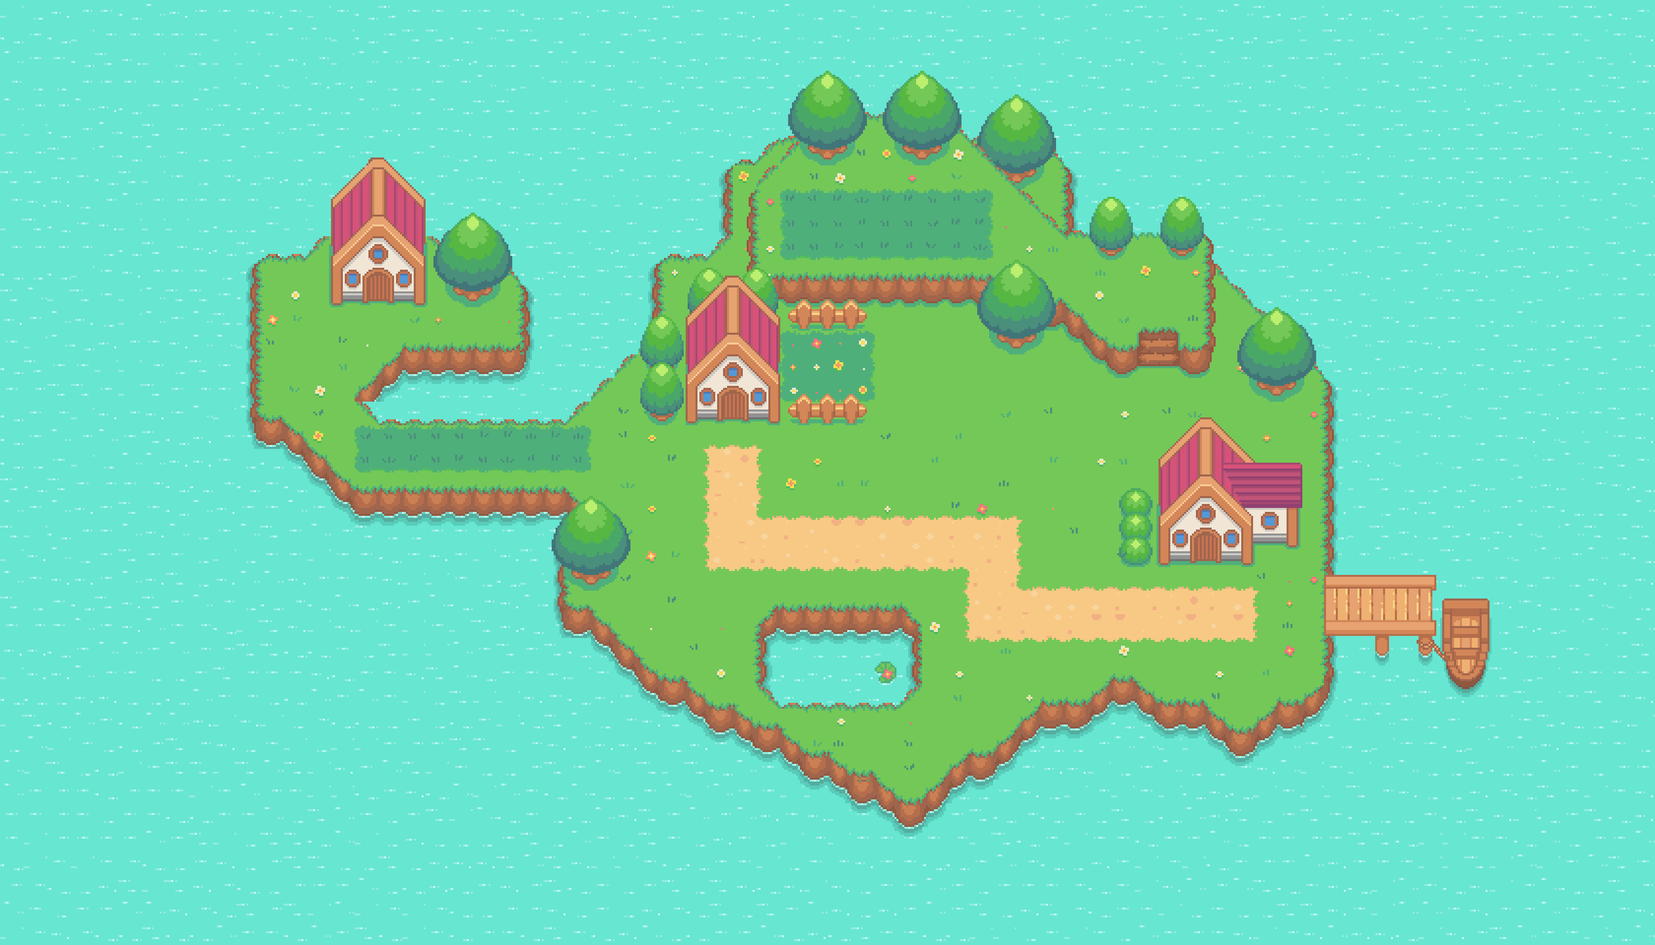
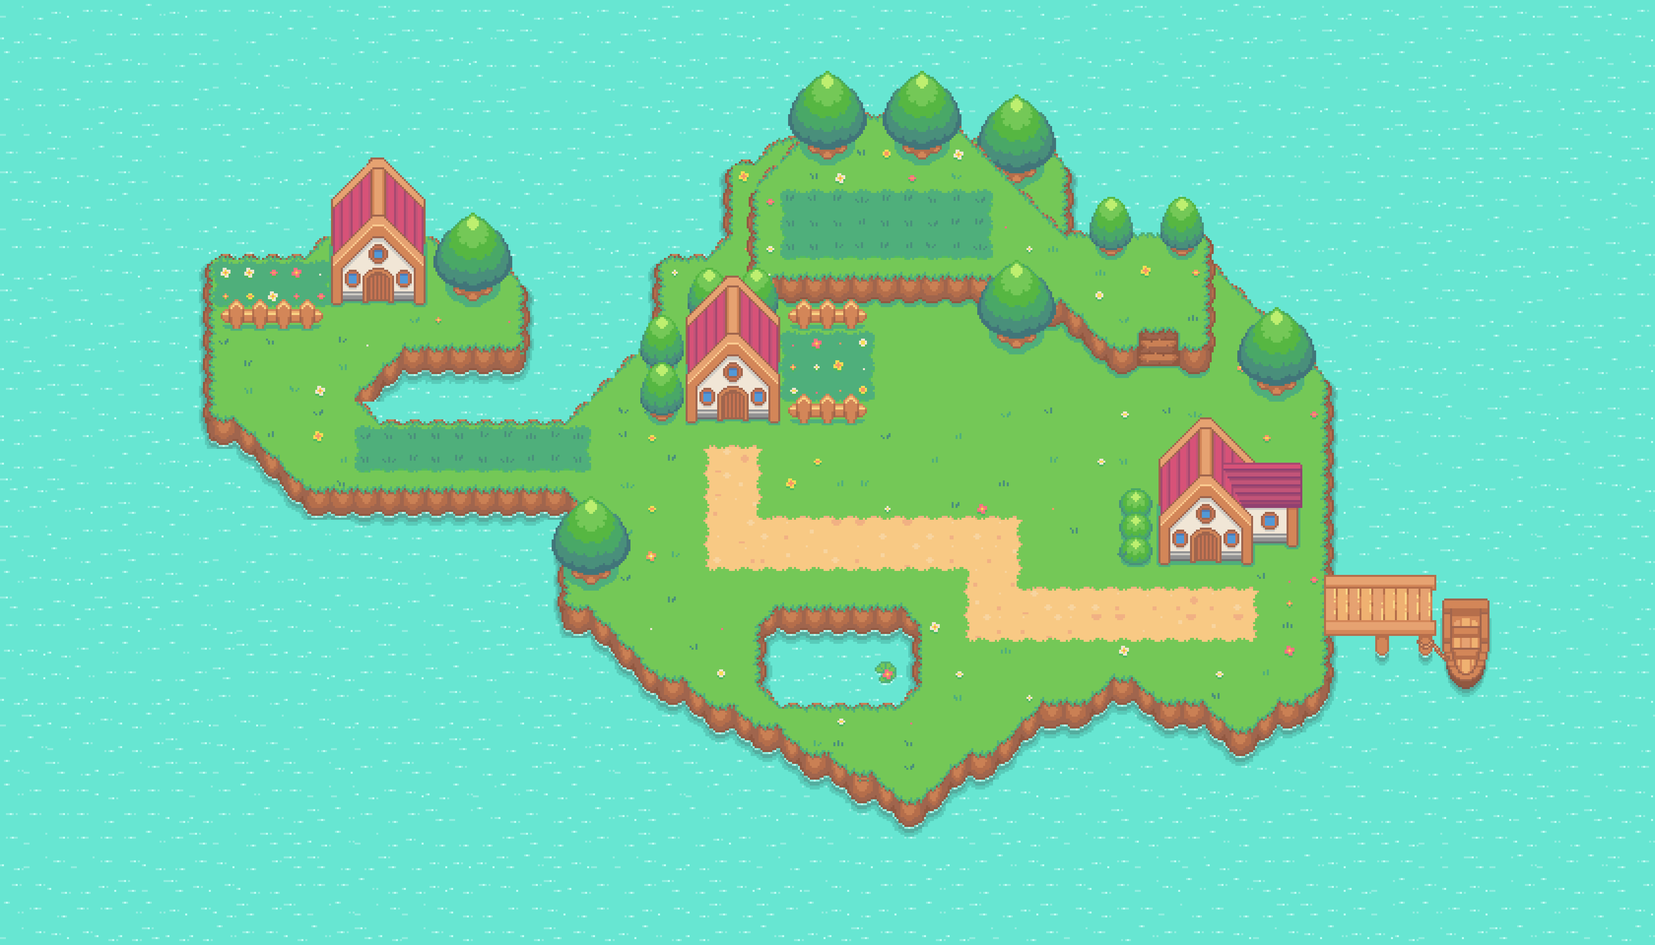
player movement animation and foreground objects added

Changed region(s): [[0.0938, 0.25, 0.2188, 0.5625]]

diff --git a/data/collisions.js b/data/collisions.js
@@ -1,40 +1,40 @@
 const collisions = [0, 0, 0, 0, 0, 0, 0, 0, 0, 0, 0, 0, 0, 0, 0, 0, 0, 0, 0, 0, 0, 0, 0, 0, 0, 0, 0, 0, 0, 0, 0, 0, 0, 0, 0, 0, 0, 0, 0, 0, 0, 0, 0, 0, 0, 0, 0, 0, 0, 0, 0, 0, 0, 0, 0, 0, 0, 0, 0, 0, 0, 0, 0, 0, 0, 0, 0, 0, 0, 0,
-    0, 0, 0, 0, 0, 0, 0, 0, 0, 0, 0, 0, 0, 0, 0, 0, 0, 0, 0, 0, 0, 0, 0, 0, 0, 0, 0, 0, 0, 0, 0, 0, 0, 0, 0, 0, 0, 0, 0, 0, 0, 0, 0, 0, 0, 0, 0, 0, 0, 0, 0, 0, 0, 0, 0, 0, 0, 0, 0, 0, 0, 0, 0, 0, 0, 0, 0, 0, 0, 0,
-    0, 0, 0, 0, 0, 0, 0, 0, 0, 0, 0, 0, 0, 0, 0, 0, 0, 0, 0, 0, 0, 0, 0, 0, 0, 0, 0, 0, 0, 0, 0, 0, 0, 0, 0, 0, 0, 0, 0, 0, 0, 0, 0, 0, 0, 0, 0, 0, 0, 0, 0, 0, 0, 0, 0, 0, 0, 0, 0, 0, 0, 0, 0, 0, 0, 0, 0, 0, 0, 0,
-    0, 0, 0, 0, 0, 0, 0, 0, 0, 0, 0, 0, 0, 0, 0, 0, 0, 0, 0, 0, 0, 0, 0, 0, 0, 0, 0, 0, 0, 0, 0, 0, 0, 0, 0, 0, 0, 0, 0, 0, 0, 0, 0, 0, 0, 0, 0, 0, 0, 0, 0, 0, 0, 0, 0, 0, 0, 0, 0, 0, 0, 0, 0, 0, 0, 0, 0, 0, 0, 0,
-    0, 0, 0, 0, 0, 0, 0, 0, 0, 0, 0, 0, 0, 0, 0, 0, 0, 0, 0, 0, 0, 0, 0, 0, 0, 0, 0, 0, 0, 0, 0, 0, 0, 0, 0, 0, 0, 0, 0, 0, 0, 0, 0, 0, 0, 0, 0, 0, 0, 0, 0, 0, 0, 0, 0, 0, 0, 0, 0, 0, 0, 0, 0, 0, 0, 0, 0, 0, 0, 0,
-    0, 0, 0, 0, 0, 0, 0, 0, 0, 0, 0, 0, 0, 0, 0, 0, 0, 0, 0, 0, 0, 0, 0, 0, 0, 0, 0, 0, 0, 0, 0, 0, 0, 0, 0, 0, 1025, 1025, 0, 0, 1025, 0, 0, 0, 0, 0, 0, 0, 0, 0, 0, 0, 0, 0, 0, 0, 0, 0, 0, 0, 0, 0, 0, 0, 0, 0, 0, 0, 0, 0,
-    0, 0, 0, 0, 0, 0, 0, 0, 0, 0, 0, 0, 0, 0, 0, 0, 0, 0, 0, 0, 0, 0, 0, 0, 0, 0, 0, 0, 0, 0, 0, 0, 0, 1025, 1025, 1025, 0, 0, 1025, 1025, 0, 1025, 0, 0, 0, 0, 0, 0, 0, 0, 0, 0, 0, 0, 0, 0, 0, 0, 0, 0, 0, 0, 0, 0, 0, 0, 0, 0, 0, 0,
-    0, 0, 0, 0, 0, 0, 0, 0, 0, 0, 0, 0, 0, 0, 0, 0, 0, 0, 0, 0, 0, 0, 0, 0, 0, 0, 0, 0, 0, 0, 0, 0, 1025, 0, 0, 0, 0, 0, 0, 0, 0, 0, 1025, 0, 0, 0, 0, 0, 0, 0, 0, 0, 0, 0, 0, 0, 0, 0, 0, 0, 0, 0, 0, 0, 0, 0, 0, 0, 0, 0,
-    0, 0, 0, 0, 0, 0, 0, 0, 0, 0, 0, 0, 0, 0, 0, 0, 0, 0, 0, 0, 0, 0, 0, 0, 0, 0, 0, 0, 0, 0, 0, 1025, 0, 0, 0, 0, 0, 0, 0, 0, 0, 0, 0, 1025, 0, 0, 0, 0, 0, 0, 0, 0, 0, 0, 0, 0, 0, 0, 0, 0, 0, 0, 0, 0, 0, 0, 0, 0, 0, 0,
-    0, 0, 0, 0, 0, 0, 0, 0, 0, 0, 0, 0, 0, 0, 0, 0, 0, 0, 0, 0, 0, 0, 0, 0, 0, 0, 0, 0, 0, 0, 0, 1025, 0, 0, 0, 0, 0, 0, 0, 0, 0, 0, 0, 0, 1025, 1025, 0, 0, 1025, 0, 0, 0, 0, 0, 0, 0, 0, 0, 0, 0, 0, 0, 0, 0, 0, 0, 0, 0, 0, 0,
-    0, 0, 0, 0, 0, 0, 0, 0, 0, 0, 0, 1025, 1025, 1025, 0, 0, 0, 0, 0, 0, 0, 0, 0, 0, 0, 0, 0, 0, 0, 0, 0, 1025, 0, 0, 0, 0, 0, 0, 0, 0, 0, 0, 0, 0, 0, 0, 1025, 1025, 0, 1025, 1025, 0, 0, 0, 0, 0, 0, 0, 0, 0, 0, 0, 0, 0, 0, 0, 0, 0, 0, 0,
-    0, 0, 0, 0, 0, 0, 0, 0, 0, 0, 1025, 0, 0, 0, 1025, 0, 0, 1025, 1025, 0, 0, 1025, 0, 0, 0, 0, 0, 0, 0, 0, 0, 1025, 0, 0, 0, 0, 0, 0, 0, 0, 0, 0, 0, 0, 0, 0, 0, 0, 0, 0, 0, 1025, 0, 0, 0, 0, 0, 0, 0, 0, 0, 0, 0, 0, 0, 0, 0, 0, 0, 0,
-    0, 0, 0, 0, 0, 0, 0, 0, 0, 0, 1025, 0, 0, 0, 1025, 1025, 1025, 1025, 0, 1025, 1025, 0, 1025, 0, 0, 0, 0, 0, 0, 0, 0, 0, 1025, 1025, 1025, 1025, 1025, 1025, 1025, 1025, 1025, 1025, 1025, 0, 0, 0, 0, 0, 0, 0, 0, 1025, 0, 0, 0, 0, 0, 0, 0, 0, 0, 0, 0, 0, 0, 0, 0, 0, 0, 0,
-    0, 0, 0, 0, 0, 0, 0, 0, 0, 0, 1025, 0, 0, 0, 0, 0, 0, 0, 0, 0, 0, 0, 1025, 0, 0, 0, 0, 0, 0, 0, 0, 0, 0, 1025, 1025, 1025, 1025, 0, 0, 0, 0, 1025, 0, 1025, 1025, 1025, 0, 0, 0, 0, 0, 1025, 0, 0, 0, 0, 0, 0, 0, 0, 0, 0, 0, 0, 0, 0, 0, 0, 0, 0,
-    0, 0, 0, 0, 0, 0, 0, 0, 0, 0, 1025, 0, 0, 0, 0, 0, 0, 0, 0, 0, 0, 0, 1025, 0, 0, 0, 0, 0, 0, 0, 0, 0, 1025, 0, 0, 0, 0, 0, 0, 0, 0, 0, 1025, 1025, 0, 0, 1025, 0, 0, 0, 0, 1025, 0, 0, 0, 0, 0, 0, 0, 0, 0, 0, 0, 0, 0, 0, 0, 0, 0, 0,
-    0, 0, 0, 0, 0, 0, 0, 0, 0, 0, 1025, 0, 0, 0, 0, 0, 1025, 1025, 1025, 1025, 1025, 1025, 0, 0, 0, 0, 1025, 0, 0, 0, 0, 0, 1025, 0, 0, 0, 0, 0, 0, 0, 0, 0, 0, 0, 0, 0, 0, 1025, 0, 0, 1025, 1025, 1025, 0, 0, 1025, 0, 0, 0, 0, 0, 0, 0, 0, 0, 0, 0, 0, 0, 0,
-    0, 0, 0, 0, 0, 0, 0, 0, 0, 0, 1025, 0, 0, 0, 0, 1025, 0, 0, 0, 0, 0, 0, 0, 0, 0, 1025, 0, 1025, 0, 0, 0, 0, 1025, 0, 0, 0, 0, 0, 0, 0, 0, 0, 0, 0, 0, 0, 0, 0, 0, 0, 0, 0, 0, 1025, 1025, 0, 1025, 0, 0, 0, 0, 0, 0, 0, 0, 0, 0, 0, 0, 0,
-    0, 0, 0, 0, 0, 0, 0, 0, 0, 0, 1025, 0, 0, 0, 0, 1025, 1025, 1025, 1025, 1025, 1025, 1025, 1025, 1025, 1025, 0, 0, 1025, 1025, 1025, 1025, 1025, 1025, 1025, 1025, 1025, 1025, 0, 0, 0, 0, 0, 0, 0, 0, 0, 0, 0, 0, 0, 0, 0, 0, 0, 0, 0, 1025, 0, 0, 0, 0, 0, 0, 0, 0, 0, 0, 0, 0, 0,
-    0, 0, 0, 0, 0, 0, 0, 0, 0, 0, 0, 1025, 1025, 0, 0, 0, 0, 0, 0, 0, 0, 0, 0, 0, 0, 0, 0, 0, 0, 0, 0, 0, 0, 0, 0, 0, 0, 0, 0, 0, 0, 0, 0, 0, 0, 0, 0, 0, 0, 0, 0, 0, 0, 0, 0, 0, 1025, 0, 0, 0, 0, 0, 0, 0, 0, 0, 0, 0, 0, 0,
-    0, 0, 0, 0, 0, 0, 0, 0, 0, 0, 0, 0, 0, 1025, 0, 0, 0, 0, 0, 0, 0, 0, 0, 0, 0, 0, 0, 0, 0, 0, 0, 0, 0, 0, 0, 0, 0, 0, 0, 0, 0, 0, 0, 0, 0, 0, 0, 0, 0, 1025, 1025, 1025, 1025, 1025, 1025, 0, 1025, 0, 0, 0, 0, 0, 0, 0, 0, 0, 0, 0, 0, 0,
-    0, 0, 0, 0, 0, 0, 0, 0, 0, 0, 0, 0, 0, 0, 1025, 0, 0, 0, 0, 0, 0, 0, 0, 0, 0, 0, 0, 0, 0, 0, 0, 0, 0, 0, 0, 0, 0, 0, 0, 0, 0, 0, 0, 0, 0, 0, 0, 0, 0, 1025, 0, 0, 0, 0, 1025, 0, 1025, 0, 0, 0, 0, 0, 0, 0, 0, 0, 0, 0, 0, 0,
-    0, 0, 0, 0, 0, 0, 0, 0, 0, 0, 0, 0, 0, 0, 0, 1025, 1025, 1025, 1025, 1025, 1025, 1025, 1025, 1025, 1025, 0, 0, 0, 0, 0, 0, 0, 0, 0, 0, 0, 0, 0, 0, 0, 0, 0, 0, 0, 0, 0, 0, 0, 0, 1025, 0, 0, 0, 0, 1025, 0, 1025, 0, 0, 0, 0, 0, 0, 0, 0, 0, 0, 0, 0, 0,
-    0, 0, 0, 0, 0, 0, 0, 0, 0, 0, 0, 0, 0, 0, 0, 0, 0, 0, 0, 0, 0, 0, 0, 0, 1025, 1025, 1025, 0, 0, 0, 0, 0, 0, 0, 0, 0, 0, 0, 0, 0, 0, 0, 0, 0, 0, 0, 0, 0, 0, 1025, 0, 0, 1025, 1025, 1025, 0, 1025, 0, 0, 0, 0, 0, 0, 0, 0, 0, 0, 0, 0, 0,
-    0, 0, 0, 0, 0, 0, 0, 0, 0, 0, 0, 0, 0, 0, 0, 0, 0, 0, 0, 0, 0, 0, 0, 0, 0, 0, 1025, 0, 0, 0, 0, 0, 0, 0, 0, 0, 0, 0, 0, 0, 0, 0, 0, 0, 0, 0, 0, 0, 0, 1025, 1025, 1025, 1025, 0, 0, 0, 1025, 1025, 1025, 1025, 1025, 0, 0, 0, 0, 0, 0, 0, 0, 0,
-    0, 0, 0, 0, 0, 0, 0, 0, 0, 0, 0, 0, 0, 0, 0, 0, 0, 0, 0, 0, 0, 0, 0, 1025, 1025, 1025, 0, 0, 0, 0, 0, 0, 0, 0, 0, 0, 0, 0, 0, 0, 0, 0, 0, 0, 0, 0, 0, 0, 0, 0, 0, 0, 0, 0, 0, 0, 0, 0, 0, 0, 0, 1025, 0, 0, 0, 0, 0, 0, 0, 0,
-    0, 0, 0, 0, 0, 0, 0, 0, 0, 0, 0, 0, 0, 0, 0, 0, 0, 0, 0, 0, 0, 0, 0, 1025, 0, 0, 0, 0, 0, 0, 0, 0, 0, 0, 0, 0, 0, 0, 0, 0, 0, 0, 0, 0, 0, 0, 0, 0, 0, 0, 0, 0, 0, 0, 0, 0, 0, 0, 0, 0, 0, 1025, 0, 0, 0, 0, 0, 0, 0, 0,
-    0, 0, 0, 0, 0, 0, 0, 0, 0, 0, 0, 0, 0, 0, 0, 0, 0, 0, 0, 0, 0, 0, 0, 0, 1025, 1025, 0, 0, 0, 0, 0, 0, 1025, 1025, 1025, 1025, 1025, 1025, 1025, 0, 0, 0, 0, 0, 0, 0, 0, 0, 0, 0, 0, 0, 0, 0, 0, 0, 0, 0, 0, 0, 0, 1025, 0, 0, 0, 0, 0, 0, 0, 0,
-    0, 0, 0, 0, 0, 0, 0, 0, 0, 0, 0, 0, 0, 0, 0, 0, 0, 0, 0, 0, 0, 0, 0, 0, 0, 0, 1025, 0, 0, 0, 0, 0, 1025, 0, 0, 0, 0, 0, 1025, 0, 0, 0, 0, 0, 0, 0, 0, 0, 0, 0, 0, 0, 0, 0, 0, 0, 1025, 1025, 1025, 1025, 1025, 0, 0, 0, 0, 0, 0, 0, 0, 0,
-    0, 0, 0, 0, 0, 0, 0, 0, 0, 0, 0, 0, 0, 0, 0, 0, 0, 0, 0, 0, 0, 0, 0, 0, 0, 0, 0, 1025, 0, 0, 0, 0, 1025, 0, 0, 0, 0, 0, 1025, 0, 0, 0, 0, 0, 0, 0, 0, 0, 0, 0, 0, 0, 0, 0, 0, 0, 1025, 0, 0, 0, 0, 0, 0, 0, 0, 0, 0, 0, 0, 0,
-    0, 0, 0, 0, 0, 0, 0, 0, 0, 0, 0, 0, 0, 0, 0, 0, 0, 0, 0, 0, 0, 0, 0, 0, 0, 0, 0, 0, 1025, 1025, 0, 0, 1025, 1025, 1025, 1025, 1025, 1025, 1025, 0, 0, 0, 0, 0, 0, 0, 1025, 1025, 1025, 0, 0, 0, 0, 0, 0, 1025, 0, 0, 0, 0, 0, 0, 0, 0, 0, 0, 0, 0, 0, 0,
-    0, 0, 0, 0, 0, 0, 0, 0, 0, 0, 0, 0, 0, 0, 0, 0, 0, 0, 0, 0, 0, 0, 0, 0, 0, 0, 0, 0, 0, 0, 1025, 1025, 0, 0, 0, 0, 0, 0, 0, 0, 0, 0, 0, 1025, 1025, 1025, 0, 0, 0, 1025, 1025, 1025, 0, 1025, 1025, 0, 0, 0, 0, 0, 0, 0, 0, 0, 0, 0, 0, 0, 0, 0,
-    0, 0, 0, 0, 0, 0, 0, 0, 0, 0, 0, 0, 0, 0, 0, 0, 0, 0, 0, 0, 0, 0, 0, 0, 0, 0, 0, 0, 0, 0, 0, 0, 1025, 1025, 0, 0, 0, 0, 0, 0, 0, 0, 1025, 0, 0, 0, 0, 0, 0, 0, 0, 0, 1025, 0, 0, 0, 0, 0, 0, 0, 0, 0, 0, 0, 0, 0, 0, 0, 0, 0,
-    0, 0, 0, 0, 0, 0, 0, 0, 0, 0, 0, 0, 0, 0, 0, 0, 0, 0, 0, 0, 0, 0, 0, 0, 0, 0, 0, 0, 0, 0, 0, 0, 0, 0, 1025, 1025, 0, 0, 0, 0, 1025, 1025, 0, 0, 0, 0, 0, 0, 0, 0, 0, 0, 0, 0, 0, 0, 0, 0, 0, 0, 0, 0, 0, 0, 0, 0, 0, 0, 0, 0,
-    0, 0, 0, 0, 0, 0, 0, 0, 0, 0, 0, 0, 0, 0, 0, 0, 0, 0, 0, 0, 0, 0, 0, 0, 0, 0, 0, 0, 0, 0, 0, 0, 0, 0, 0, 0, 1025, 1025, 0, 1025, 0, 0, 0, 0, 0, 0, 0, 0, 0, 0, 0, 0, 0, 0, 0, 0, 0, 0, 0, 0, 0, 0, 0, 0, 0, 0, 0, 0, 0, 0,
-    0, 0, 0, 0, 0, 0, 0, 0, 0, 0, 0, 0, 0, 0, 0, 0, 0, 0, 0, 0, 0, 0, 0, 0, 0, 0, 0, 0, 0, 0, 0, 0, 0, 0, 0, 0, 0, 0, 1025, 0, 0, 0, 0, 0, 0, 0, 0, 0, 0, 0, 0, 0, 0, 0, 0, 0, 0, 0, 0, 0, 0, 0, 0, 0, 0, 0, 0, 0, 0, 0,
-    0, 0, 0, 0, 0, 0, 0, 0, 0, 0, 0, 0, 0, 0, 0, 0, 0, 0, 0, 0, 0, 0, 0, 0, 0, 0, 0, 0, 0, 0, 0, 0, 0, 0, 0, 0, 0, 0, 0, 0, 0, 0, 0, 0, 0, 0, 0, 0, 0, 0, 0, 0, 0, 0, 0, 0, 0, 0, 0, 0, 0, 0, 0, 0, 0, 0, 0, 0, 0, 0,
-    0, 0, 0, 0, 0, 0, 0, 0, 0, 0, 0, 0, 0, 0, 0, 0, 0, 0, 0, 0, 0, 0, 0, 0, 0, 0, 0, 0, 0, 0, 0, 0, 0, 0, 0, 0, 0, 0, 0, 0, 0, 0, 0, 0, 0, 0, 0, 0, 0, 0, 0, 0, 0, 0, 0, 0, 0, 0, 0, 0, 0, 0, 0, 0, 0, 0, 0, 0, 0, 0,
-    0, 0, 0, 0, 0, 0, 0, 0, 0, 0, 0, 0, 0, 0, 0, 0, 0, 0, 0, 0, 0, 0, 0, 0, 0, 0, 0, 0, 0, 0, 0, 0, 0, 0, 0, 0, 0, 0, 0, 0, 0, 0, 0, 0, 0, 0, 0, 0, 0, 0, 0, 0, 0, 0, 0, 0, 0, 0, 0, 0, 0, 0, 0, 0, 0, 0, 0, 0, 0, 0,
-    0, 0, 0, 0, 0, 0, 0, 0, 0, 0, 0, 0, 0, 0, 0, 0, 0, 0, 0, 0, 0, 0, 0, 0, 0, 0, 0, 0, 0, 0, 0, 0, 0, 0, 0, 0, 0, 0, 0, 0, 0, 0, 0, 0, 0, 0, 0, 0, 0, 0, 0, 0, 0, 0, 0, 0, 0, 0, 0, 0, 0, 0, 0, 0, 0, 0, 0, 0, 0, 0,
-    0, 0, 0, 0, 0, 0, 0, 0, 0, 0, 0, 0, 0, 0, 0, 0, 0, 0, 0, 0, 0, 0, 0, 0, 0, 0, 0, 0, 0, 0, 0, 0, 0, 0, 0, 0, 0, 0, 0, 0, 0, 0, 0, 0, 0, 0, 0, 0, 0, 0, 0, 0, 0, 0, 0, 0, 0, 0, 0, 0, 0, 0, 0, 0, 0, 0, 0, 0, 0, 0]
+        0, 0, 0, 0, 0, 0, 0, 0, 0, 0, 0, 0, 0, 0, 0, 0, 0, 0, 0, 0, 0, 0, 0, 0, 0, 0, 0, 0, 0, 0, 0, 0, 0, 0, 0, 0, 0, 0, 0, 0, 0, 0, 0, 0, 0, 0, 0, 0, 0, 0, 0, 0, 0, 0, 0, 0, 0, 0, 0, 0, 0, 0, 0, 0, 0, 0, 0, 0, 0, 0,
+        0, 0, 0, 0, 0, 0, 0, 0, 0, 0, 0, 0, 0, 0, 0, 0, 0, 0, 0, 0, 0, 0, 0, 0, 0, 0, 0, 0, 0, 0, 0, 0, 0, 0, 0, 0, 0, 0, 0, 0, 0, 0, 0, 0, 0, 0, 0, 0, 0, 0, 0, 0, 0, 0, 0, 0, 0, 0, 0, 0, 0, 0, 0, 0, 0, 0, 0, 0, 0, 0,
+        0, 0, 0, 0, 0, 0, 0, 0, 0, 0, 0, 0, 0, 0, 0, 0, 0, 0, 0, 0, 0, 0, 0, 0, 0, 0, 0, 0, 0, 0, 0, 0, 0, 0, 0, 0, 0, 0, 0, 0, 0, 0, 0, 0, 0, 0, 0, 0, 0, 0, 0, 0, 0, 0, 0, 0, 0, 0, 0, 0, 0, 0, 0, 0, 0, 0, 0, 0, 0, 0,
+        0, 0, 0, 0, 0, 0, 0, 0, 0, 0, 0, 0, 0, 0, 0, 0, 0, 0, 0, 0, 0, 0, 0, 0, 0, 0, 0, 0, 0, 0, 0, 0, 0, 0, 0, 0, 0, 0, 0, 0, 0, 0, 0, 0, 0, 0, 0, 0, 0, 0, 0, 0, 0, 0, 0, 0, 0, 0, 0, 0, 0, 0, 0, 0, 0, 0, 0, 0, 0, 0,
+        0, 0, 0, 0, 0, 0, 0, 0, 0, 0, 0, 0, 0, 0, 0, 0, 0, 0, 0, 0, 0, 0, 0, 0, 0, 0, 0, 0, 0, 0, 0, 0, 0, 0, 0, 0, 1025, 1025, 0, 0, 1025, 0, 0, 0, 0, 0, 0, 0, 0, 0, 0, 0, 0, 0, 0, 0, 0, 0, 0, 0, 0, 0, 0, 0, 0, 0, 0, 0, 0, 0,
+        0, 0, 0, 0, 0, 0, 0, 0, 0, 0, 0, 0, 0, 0, 0, 0, 0, 0, 0, 0, 0, 0, 0, 0, 0, 0, 0, 0, 0, 0, 0, 0, 0, 1025, 1025, 1025, 0, 0, 1025, 1025, 0, 1025, 0, 0, 0, 0, 0, 0, 0, 0, 0, 0, 0, 0, 0, 0, 0, 0, 0, 0, 0, 0, 0, 0, 0, 0, 0, 0, 0, 0,
+        0, 0, 0, 0, 0, 0, 0, 0, 0, 0, 0, 0, 0, 0, 0, 0, 0, 0, 0, 0, 0, 0, 0, 0, 0, 0, 0, 0, 0, 0, 0, 0, 1025, 0, 0, 0, 0, 0, 0, 0, 0, 0, 1025, 0, 0, 0, 0, 0, 0, 0, 0, 0, 0, 0, 0, 0, 0, 0, 0, 0, 0, 0, 0, 0, 0, 0, 0, 0, 0, 0,
+        0, 0, 0, 0, 0, 0, 0, 0, 0, 0, 0, 0, 0, 0, 0, 0, 0, 0, 0, 0, 0, 0, 0, 0, 0, 0, 0, 0, 0, 0, 0, 1025, 0, 0, 0, 0, 0, 0, 0, 0, 0, 0, 0, 1025, 0, 0, 0, 0, 0, 0, 0, 0, 0, 0, 0, 0, 0, 0, 0, 0, 0, 0, 0, 0, 0, 0, 0, 0, 0, 0,
+        0, 0, 0, 0, 0, 0, 0, 0, 0, 0, 0, 0, 0, 0, 0, 0, 0, 0, 0, 0, 0, 0, 0, 0, 0, 0, 0, 0, 0, 0, 0, 1025, 0, 0, 0, 0, 0, 0, 0, 0, 0, 0, 0, 0, 1025, 1025, 0, 0, 1025, 0, 0, 0, 0, 0, 0, 0, 0, 0, 0, 0, 0, 0, 0, 0, 0, 0, 0, 0, 0, 0,
+        0, 0, 0, 0, 0, 0, 0, 0, 0, 0, 0, 0, 0, 0, 0, 0, 0, 0, 0, 0, 0, 0, 0, 0, 0, 0, 0, 0, 0, 0, 0, 1025, 0, 0, 0, 0, 0, 0, 0, 0, 0, 0, 0, 0, 0, 0, 1025, 1025, 0, 1025, 1025, 0, 0, 0, 0, 0, 0, 0, 0, 0, 0, 0, 0, 0, 0, 0, 0, 0, 0, 0,
+        0, 0, 0, 0, 0, 0, 0, 0, 1025, 0, 0, 0, 0, 0, 0, 0, 0, 0, 1025, 0, 0, 1025, 0, 0, 0, 0, 0, 0, 0, 0, 0, 1025, 0, 0, 0, 0, 0, 0, 0, 0, 0, 0, 0, 0, 0, 0, 0, 0, 0, 0, 0, 1025, 0, 0, 0, 0, 0, 0, 0, 0, 0, 0, 0, 0, 0, 0, 0, 0, 0, 0,
+        0, 0, 0, 0, 0, 0, 0, 0, 1025, 0, 0, 0, 0, 0, 1025, 1025, 1025, 1025, 0, 1025, 1025, 0, 1025, 0, 0, 0, 0, 0, 0, 0, 0, 0, 1025, 1025, 1025, 1025, 1025, 1025, 1025, 1025, 1025, 1025, 1025, 0, 0, 0, 0, 0, 0, 0, 0, 1025, 0, 0, 0, 0, 0, 0, 0, 0, 0, 0, 0, 0, 0, 0, 0, 0, 0, 0,
+        0, 0, 0, 0, 0, 0, 0, 0, 1025, 1025, 1025, 1025, 1025, 1025, 0, 0, 0, 0, 0, 0, 0, 0, 1025, 0, 0, 0, 0, 0, 0, 0, 0, 0, 0, 1025, 1025, 1025, 1025, 0, 0, 0, 0, 1025, 0, 1025, 1025, 1025, 0, 0, 0, 0, 0, 1025, 0, 0, 0, 0, 0, 0, 0, 0, 0, 0, 0, 0, 0, 0, 0, 0, 0, 0,
+        0, 0, 0, 0, 0, 0, 0, 0, 1025, 0, 0, 0, 0, 0, 0, 0, 0, 0, 0, 0, 0, 0, 1025, 0, 0, 0, 0, 0, 0, 0, 0, 0, 1025, 0, 0, 0, 0, 0, 0, 0, 0, 0, 1025, 1025, 0, 0, 1025, 0, 0, 0, 0, 1025, 0, 0, 0, 0, 0, 0, 0, 0, 0, 0, 0, 0, 0, 0, 0, 0, 0, 0,
+        0, 0, 0, 0, 0, 0, 0, 0, 1025, 0, 0, 0, 0, 0, 0, 0, 1025, 1025, 1025, 1025, 1025, 1025, 0, 0, 0, 0, 1025, 0, 0, 0, 0, 0, 1025, 0, 0, 0, 0, 0, 0, 0, 0, 0, 0, 0, 0, 0, 0, 1025, 0, 0, 1025, 1025, 1025, 0, 0, 1025, 0, 0, 0, 0, 0, 0, 0, 0, 0, 0, 0, 0, 0, 0,
+        0, 0, 0, 0, 0, 0, 0, 0, 1025, 0, 0, 0, 0, 0, 0, 1025, 1025, 1025, 1025, 1025, 1025, 1025, 1025, 1025, 1025, 1025, 0, 1025, 0, 0, 0, 0, 1025, 0, 0, 0, 0, 0, 0, 0, 0, 0, 0, 0, 0, 0, 0, 0, 0, 0, 0, 0, 0, 1025, 1025, 0, 1025, 0, 0, 0, 0, 0, 0, 0, 0, 0, 0, 0, 0, 0,
+        0, 0, 0, 0, 0, 0, 0, 0, 1025, 0, 0, 0, 0, 0, 0, 0, 0, 0, 0, 0, 0, 0, 0, 0, 0, 0, 0, 1025, 1025, 1025, 1025, 1025, 1025, 1025, 1025, 1025, 1025, 0, 0, 0, 0, 0, 0, 0, 0, 0, 0, 0, 0, 0, 0, 0, 0, 0, 0, 0, 1025, 0, 0, 0, 0, 0, 0, 0, 0, 0, 0, 0, 0, 0,
+        0, 0, 0, 0, 0, 0, 0, 0, 0, 1025, 1025, 0, 0, 0, 0, 0, 0, 0, 0, 0, 0, 0, 0, 0, 0, 0, 0, 0, 0, 0, 0, 0, 0, 0, 0, 0, 0, 0, 0, 0, 0, 0, 0, 0, 0, 0, 0, 0, 0, 0, 0, 0, 0, 0, 0, 0, 1025, 0, 0, 0, 0, 0, 0, 0, 0, 0, 0, 0, 0, 0,
+        0, 0, 0, 0, 0, 0, 0, 0, 0, 0, 0, 1025, 0, 0, 0, 0, 0, 0, 0, 0, 0, 0, 0, 0, 0, 0, 0, 0, 0, 0, 0, 0, 0, 0, 0, 0, 0, 0, 0, 0, 0, 0, 0, 0, 0, 0, 0, 0, 0, 1025, 1025, 1025, 1025, 1025, 1025, 0, 1025, 0, 0, 0, 0, 0, 0, 0, 0, 0, 0, 0, 0, 0,
+        0, 0, 0, 0, 0, 0, 0, 0, 0, 0, 0, 0, 1025, 0, 0, 0, 0, 0, 0, 0, 0, 0, 0, 0, 0, 0, 0, 0, 0, 0, 0, 0, 0, 0, 0, 0, 0, 0, 0, 0, 0, 0, 0, 0, 0, 0, 0, 1025, 1025, 0, 0, 0, 0, 0, 1025, 0, 1025, 0, 0, 0, 0, 0, 0, 0, 0, 0, 0, 0, 0, 0,
+        0, 0, 0, 0, 0, 0, 0, 0, 0, 0, 0, 0, 0, 1025, 1025, 1025, 1025, 1025, 1025, 1025, 1025, 1025, 1025, 1025, 1025, 0, 0, 0, 0, 0, 0, 0, 0, 0, 0, 0, 0, 0, 0, 0, 0, 0, 0, 0, 0, 0, 0, 1025, 0, 0, 0, 0, 0, 0, 1025, 0, 1025, 0, 0, 0, 0, 0, 0, 0, 0, 0, 0, 0, 0, 0,
+        0, 0, 0, 0, 0, 0, 0, 0, 0, 0, 0, 0, 0, 0, 0, 0, 0, 0, 0, 0, 0, 0, 0, 0, 1025, 1025, 1025, 0, 0, 0, 0, 0, 0, 0, 0, 0, 0, 0, 0, 0, 0, 0, 0, 0, 0, 0, 0, 1025, 0, 0, 0, 0, 0, 1025, 1025, 0, 1025, 0, 0, 0, 0, 0, 0, 0, 0, 0, 0, 0, 0, 0,
+        0, 0, 0, 0, 0, 0, 0, 0, 0, 0, 0, 0, 0, 0, 0, 0, 0, 0, 0, 0, 0, 0, 0, 0, 0, 0, 1025, 0, 0, 0, 0, 0, 0, 0, 0, 0, 0, 0, 0, 0, 0, 0, 0, 0, 0, 0, 0, 1025, 1025, 1025, 1025, 1025, 1025, 0, 0, 0, 1025, 1025, 1025, 1025, 1025, 0, 0, 0, 0, 0, 0, 0, 0, 0,
+        0, 0, 0, 0, 0, 0, 0, 0, 0, 0, 0, 0, 0, 0, 0, 0, 0, 0, 0, 0, 0, 0, 0, 1025, 1025, 1025, 0, 0, 0, 0, 0, 0, 0, 0, 0, 0, 0, 0, 0, 0, 0, 0, 0, 0, 0, 0, 0, 0, 0, 0, 0, 0, 0, 0, 0, 0, 0, 0, 0, 0, 0, 1025, 0, 0, 0, 0, 0, 0, 0, 0,
+        0, 0, 0, 0, 0, 0, 0, 0, 0, 0, 0, 0, 0, 0, 0, 0, 0, 0, 0, 0, 0, 0, 0, 1025, 0, 0, 0, 0, 0, 0, 0, 0, 0, 0, 0, 0, 0, 0, 0, 0, 0, 0, 0, 0, 0, 0, 0, 0, 0, 0, 0, 0, 0, 0, 0, 0, 0, 0, 0, 0, 0, 1025, 0, 0, 0, 0, 0, 0, 0, 0,
+        0, 0, 0, 0, 0, 0, 0, 0, 0, 0, 0, 0, 0, 0, 0, 0, 0, 0, 0, 0, 0, 0, 0, 0, 1025, 1025, 0, 0, 0, 0, 0, 0, 1025, 1025, 1025, 1025, 1025, 1025, 1025, 0, 0, 0, 0, 0, 0, 0, 0, 0, 0, 0, 0, 0, 0, 0, 0, 0, 0, 0, 0, 0, 0, 1025, 0, 0, 0, 0, 0, 0, 0, 0,
+        0, 0, 0, 0, 0, 0, 0, 0, 0, 0, 0, 0, 0, 0, 0, 0, 0, 0, 0, 0, 0, 0, 0, 0, 0, 0, 1025, 0, 0, 0, 0, 0, 1025, 0, 0, 0, 0, 0, 1025, 0, 0, 0, 0, 0, 0, 0, 0, 0, 0, 0, 0, 0, 0, 0, 0, 0, 1025, 1025, 1025, 1025, 1025, 0, 0, 0, 0, 0, 0, 0, 0, 0,
+        0, 0, 0, 0, 0, 0, 0, 0, 0, 0, 0, 0, 0, 0, 0, 0, 0, 0, 0, 0, 0, 0, 0, 0, 0, 0, 0, 1025, 0, 0, 0, 0, 1025, 0, 0, 0, 0, 0, 1025, 0, 0, 0, 0, 0, 0, 0, 0, 0, 0, 0, 0, 0, 0, 0, 0, 0, 1025, 0, 0, 0, 0, 0, 0, 0, 0, 0, 0, 0, 0, 0,
+        0, 0, 0, 0, 0, 0, 0, 0, 0, 0, 0, 0, 0, 0, 0, 0, 0, 0, 0, 0, 0, 0, 0, 0, 0, 0, 0, 0, 1025, 1025, 0, 0, 1025, 1025, 1025, 1025, 1025, 1025, 1025, 0, 0, 0, 0, 0, 0, 0, 1025, 1025, 1025, 0, 0, 0, 0, 0, 0, 1025, 0, 0, 0, 0, 0, 0, 0, 0, 0, 0, 0, 0, 0, 0,
+        0, 0, 0, 0, 0, 0, 0, 0, 0, 0, 0, 0, 0, 0, 0, 0, 0, 0, 0, 0, 0, 0, 0, 0, 0, 0, 0, 0, 0, 0, 1025, 1025, 0, 0, 0, 0, 0, 0, 0, 0, 0, 0, 0, 1025, 1025, 1025, 0, 0, 0, 1025, 1025, 1025, 0, 1025, 1025, 0, 0, 0, 0, 0, 0, 0, 0, 0, 0, 0, 0, 0, 0, 0,
+        0, 0, 0, 0, 0, 0, 0, 0, 0, 0, 0, 0, 0, 0, 0, 0, 0, 0, 0, 0, 0, 0, 0, 0, 0, 0, 0, 0, 0, 0, 0, 0, 1025, 1025, 0, 0, 0, 0, 0, 0, 0, 0, 1025, 0, 0, 0, 0, 0, 0, 0, 0, 0, 1025, 0, 0, 0, 0, 0, 0, 0, 0, 0, 0, 0, 0, 0, 0, 0, 0, 0,
+        0, 0, 0, 0, 0, 0, 0, 0, 0, 0, 0, 0, 0, 0, 0, 0, 0, 0, 0, 0, 0, 0, 0, 0, 0, 0, 0, 0, 0, 0, 0, 0, 0, 0, 1025, 1025, 0, 0, 0, 0, 1025, 1025, 0, 0, 0, 0, 0, 0, 0, 0, 0, 0, 0, 0, 0, 0, 0, 0, 0, 0, 0, 0, 0, 0, 0, 0, 0, 0, 0, 0,
+        0, 0, 0, 0, 0, 0, 0, 0, 0, 0, 0, 0, 0, 0, 0, 0, 0, 0, 0, 0, 0, 0, 0, 0, 0, 0, 0, 0, 0, 0, 0, 0, 0, 0, 0, 0, 1025, 1025, 0, 1025, 0, 0, 0, 0, 0, 0, 0, 0, 0, 0, 0, 0, 0, 0, 0, 0, 0, 0, 0, 0, 0, 0, 0, 0, 0, 0, 0, 0, 0, 0,
+        0, 0, 0, 0, 0, 0, 0, 0, 0, 0, 0, 0, 0, 0, 0, 0, 0, 0, 0, 0, 0, 0, 0, 0, 0, 0, 0, 0, 0, 0, 0, 0, 0, 0, 0, 0, 0, 0, 1025, 0, 0, 0, 0, 0, 0, 0, 0, 0, 0, 0, 0, 0, 0, 0, 0, 0, 0, 0, 0, 0, 0, 0, 0, 0, 0, 0, 0, 0, 0, 0,
+        0, 0, 0, 0, 0, 0, 0, 0, 0, 0, 0, 0, 0, 0, 0, 0, 0, 0, 0, 0, 0, 0, 0, 0, 0, 0, 0, 0, 0, 0, 0, 0, 0, 0, 0, 0, 0, 0, 0, 0, 0, 0, 0, 0, 0, 0, 0, 0, 0, 0, 0, 0, 0, 0, 0, 0, 0, 0, 0, 0, 0, 0, 0, 0, 0, 0, 0, 0, 0, 0,
+        0, 0, 0, 0, 0, 0, 0, 0, 0, 0, 0, 0, 0, 0, 0, 0, 0, 0, 0, 0, 0, 0, 0, 0, 0, 0, 0, 0, 0, 0, 0, 0, 0, 0, 0, 0, 0, 0, 0, 0, 0, 0, 0, 0, 0, 0, 0, 0, 0, 0, 0, 0, 0, 0, 0, 0, 0, 0, 0, 0, 0, 0, 0, 0, 0, 0, 0, 0, 0, 0,
+        0, 0, 0, 0, 0, 0, 0, 0, 0, 0, 0, 0, 0, 0, 0, 0, 0, 0, 0, 0, 0, 0, 0, 0, 0, 0, 0, 0, 0, 0, 0, 0, 0, 0, 0, 0, 0, 0, 0, 0, 0, 0, 0, 0, 0, 0, 0, 0, 0, 0, 0, 0, 0, 0, 0, 0, 0, 0, 0, 0, 0, 0, 0, 0, 0, 0, 0, 0, 0, 0,
+        0, 0, 0, 0, 0, 0, 0, 0, 0, 0, 0, 0, 0, 0, 0, 0, 0, 0, 0, 0, 0, 0, 0, 0, 0, 0, 0, 0, 0, 0, 0, 0, 0, 0, 0, 0, 0, 0, 0, 0, 0, 0, 0, 0, 0, 0, 0, 0, 0, 0, 0, 0, 0, 0, 0, 0, 0, 0, 0, 0, 0, 0, 0, 0, 0, 0, 0, 0, 0, 0,
+        0, 0, 0, 0, 0, 0, 0, 0, 0, 0, 0, 0, 0, 0, 0, 0, 0, 0, 0, 0, 0, 0, 0, 0, 0, 0, 0, 0, 0, 0, 0, 0, 0, 0, 0, 0, 0, 0, 0, 0, 0, 0, 0, 0, 0, 0, 0, 0, 0, 0, 0, 0, 0, 0, 0, 0, 0, 0, 0, 0, 0, 0, 0, 0, 0, 0, 0, 0, 0, 0]

diff --git a/index.js b/index.js
@@ -9,21 +9,6 @@ for (let i = 0; i < collisions.length; i+=70) {
     collisionsMap.push(collisions.slice(i, 70 + i))
 }
 
-class Boundary {
-    static width = 48
-    static height = 48
-    constructor({position}) {
-        this.position = position
-        this.width = 48
-        this.height = 48
-    }
-
-    draw() {
-        c.fillStyle = 'rgba(255, 0, 0, 0.5)'
-        c.fillRect(this.position.x, this.position.y, this.width, this.height)
-    }
-}
-
 const boundaries = []
 const offset = {
     x: -950,
@@ -43,36 +28,20 @@ collisionsMap.forEach((row, i) => {
 const map = new Image()
 map.src = './img/Poke Map.png'
 
-const playerImage = new Image()
-playerImage.src = './img/playerDown.png'
+const foregroundImg = new Image()
+foregroundImg.src = './img/foregroundObj.png'
 
-class Sprite {
-    constructor({position, image, frames = {max: 1}}) {
-        this.position = position,
-        this.image = image
-        this.frames = frames
+const playerUp = new Image()
+playerUp.src = './img/playerUp.png'
 
-        this.image.onload = () => {
-            this.width = this.image.width / this.frames.max
-            this.height = this.image.height
-        }
-    }
+const playerDown = new Image()
+playerDown.src = './img/playerDown.png'
 
-    draw() {
-        //c.drawImage(this.image, this.position.x, this.position.y)
-        c.drawImage(
-            this.image,
-            0,
-            0,
-            this.image.width / this.frames.max,
-            this.image.height, 
-            this.position.x,
-            this.position.y,
-            this.image.width / this.frames.max,
-            this.image.height, 
-        )
-    }
-}
+const playerLeft = new Image()
+playerLeft.src = './img/playerLeft.png'
+
+const playerRight = new Image()
+playerRight.src = './img/playerRight.png'
 
 //canvas.width / 2, 
 //canvas.height / 2,
@@ -82,9 +51,15 @@ const player = new Sprite({
         x: canvas.width / 2,
         y: canvas.height / 2
     },
-    image: playerImage,
+    image: playerDown,
     frames: {
         max: 4
+    },
+    sprites: {
+        up: playerUp,
+        down: playerDown,
+        left: playerLeft,
+        right: playerRight,
     }
 })
 
@@ -94,6 +69,14 @@ const background = new Sprite({
         y: offset.y
     },
     image: map
+})
+
+const foreground = new Sprite({
+    position: {
+        x: offset.x,
+        y: offset.y
+    },
+    image: foregroundImg
 })
 
 const keys = {
@@ -111,7 +94,7 @@ const keys = {
     }
 }
 
-const movables = [background, ...boundaries]
+const movables = [background, ...boundaries, foreground]
 
 function rectangularCollision({rectangle1, rectangle2}) {
     return(
@@ -129,12 +112,15 @@ function animate() {
         boundary.draw()
         
     })
-
     player.draw()
+    foreground.draw()
 
     //detect keys pressed and movement player
     let moving = true
+    player.moving = false
     if (keys.w.pressed && lastKey === 'w') {
+        player.moving = true
+        player.image = player.sprites.up
         for (let i = 0; i < boundaries.length; i++) {
         const boundary = boundaries[i]
         //detect collisions
@@ -155,6 +141,8 @@ function animate() {
         if (moving) movables.forEach(movable => {movable.position.y += 3})
     }
     else if (keys.s.pressed && lastKey === 's') {
+        player.moving = true
+        player.image = player.sprites.down
         for (let i = 0; i < boundaries.length; i++) {
             const boundary = boundaries[i]
             //detect collisions
@@ -175,6 +163,8 @@ function animate() {
             if (moving) movables.forEach(movable => {movable.position.y -= 3})
     }
     else if (keys.a.pressed && lastKey === 'a') {
+        player.moving = true
+        player.image = player.sprites.left
         for (let i = 0; i < boundaries.length; i++) {
             const boundary = boundaries[i]
             //detect collisions
@@ -195,6 +185,8 @@ function animate() {
             if (moving) movables.forEach(movable => {movable.position.x += 3})
     }
     else if (keys.d.pressed && lastKey === 'd') {
+        player.moving = true
+        player.image = player.sprites.right
         for (let i = 0; i < boundaries.length; i++) {
             const boundary = boundaries[i]
             //detect collisions

diff --git a/classes.js b/classes.js
@@ -1,0 +1,53 @@
+class Sprite {
+    constructor({position, image, frames = {max: 1}, sprites}) {
+        this.position = position,
+        this.image = image
+        this.frames = {...frames, val: 0, elapsed: 0}
+
+        this.image.onload = () => {
+            this.width = this.image.width / this.frames.max
+            this.height = this.image.height
+        }
+        this.moving = false
+        this.sprites = sprites
+    }
+
+    draw() {
+        //c.drawImage(this.image, this.position.x, this.position.y)
+        c.drawImage(
+            this.image,
+            this.frames.val * this.width,
+            0,
+            this.image.width / this.frames.max,
+            this.image.height, 
+            this.position.x,
+            this.position.y,
+            this.image.width / this.frames.max,
+            this.image.height, 
+        )
+        
+        if (!this.moving) return
+            if (this.frames.max > 1) {
+                this.frames.elapsed++
+            }
+            if (this.frames.elapsed % 10 === 0) {
+                if (this.frames.val < this.frames.max - 1) this.frames.val++
+                    else this.frames.val = 0
+            }
+    }
+}
+
+class Boundary {
+    static width = 48
+    static height = 48
+    constructor({position}) {
+        this.position = position
+        this.width = 48
+        this.height = 48
+    }
+
+    draw() {
+        c.fillStyle = 'rgba(255, 0, 0, 0.5)'
+        c.fillRect(this.position.x, this.position.y, this.width, this.height)
+    }
+}

diff --git a/index.html b/index.html
@@ -10,4 +10,5 @@
 </body>
 
 <script src="data/collisions.js"></script>
+<script src="classes.js"></script>
 <script src="index.js"></script>
